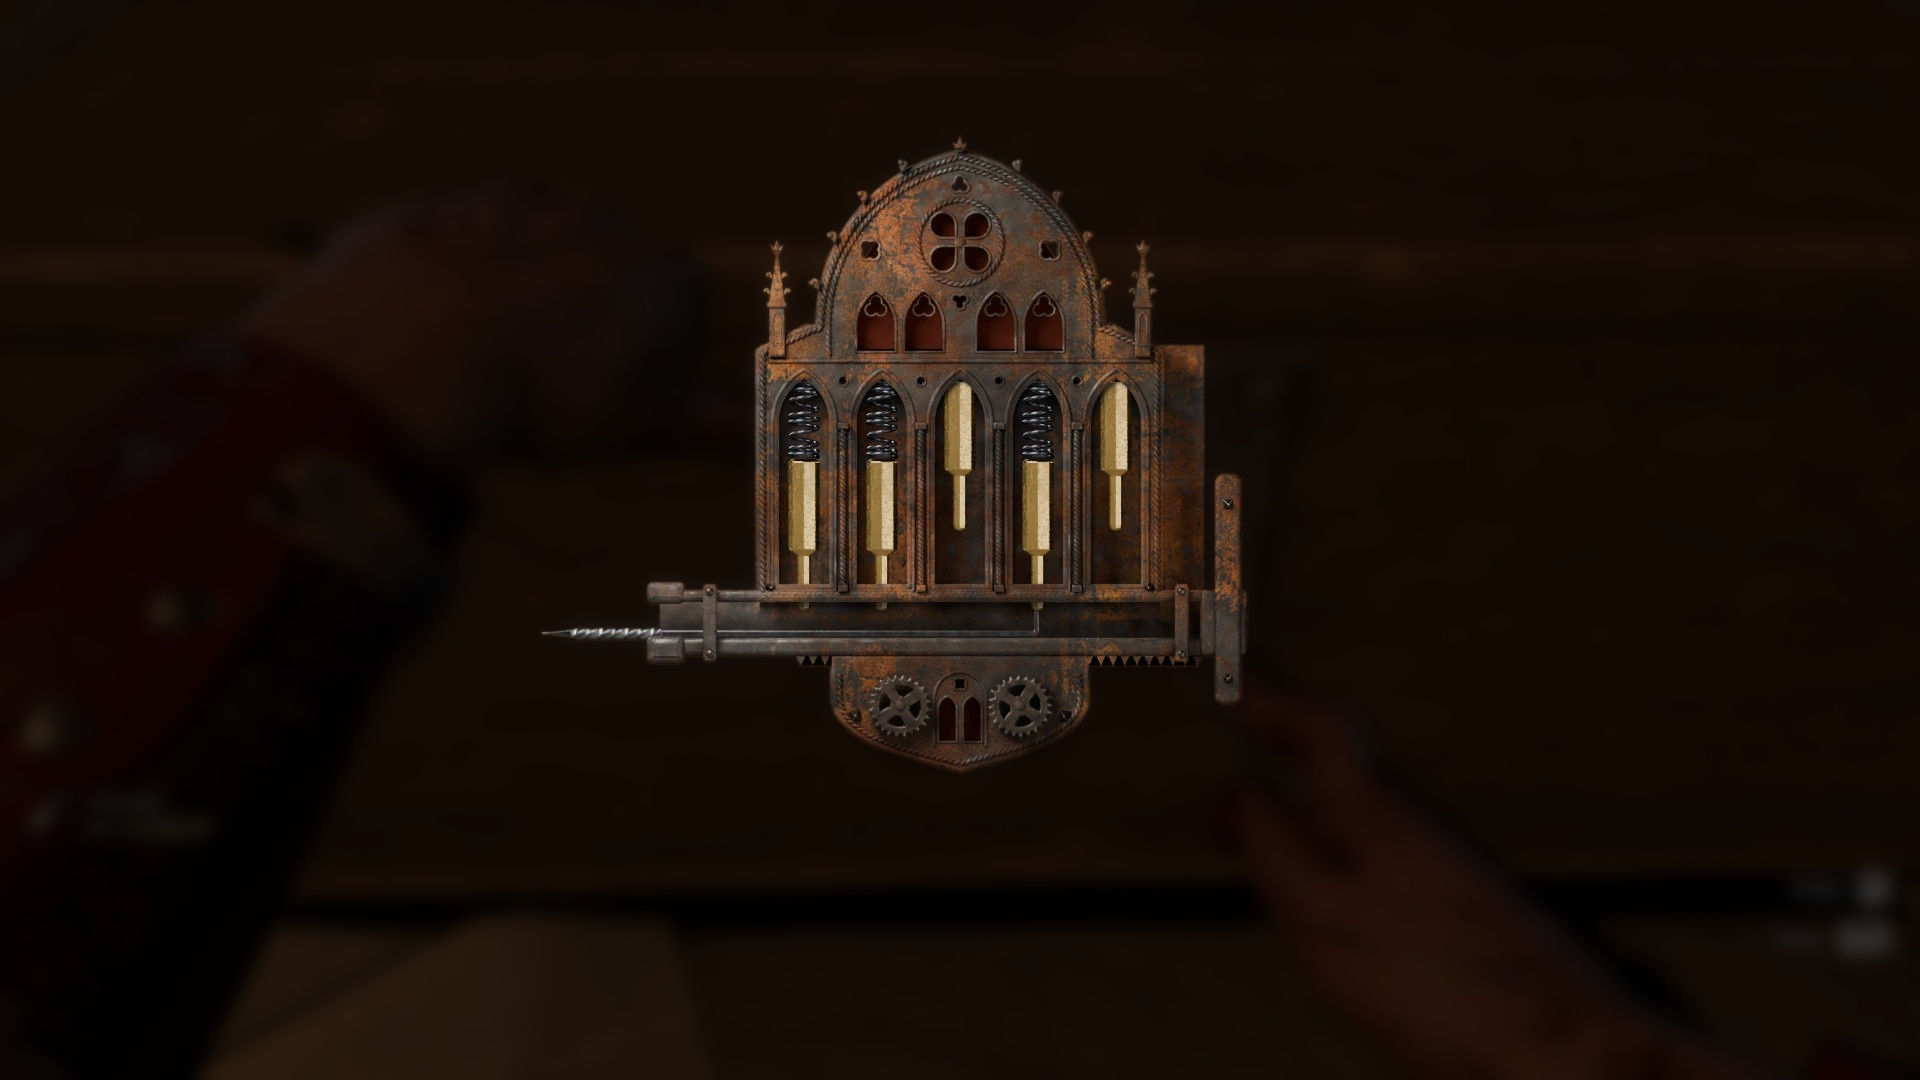
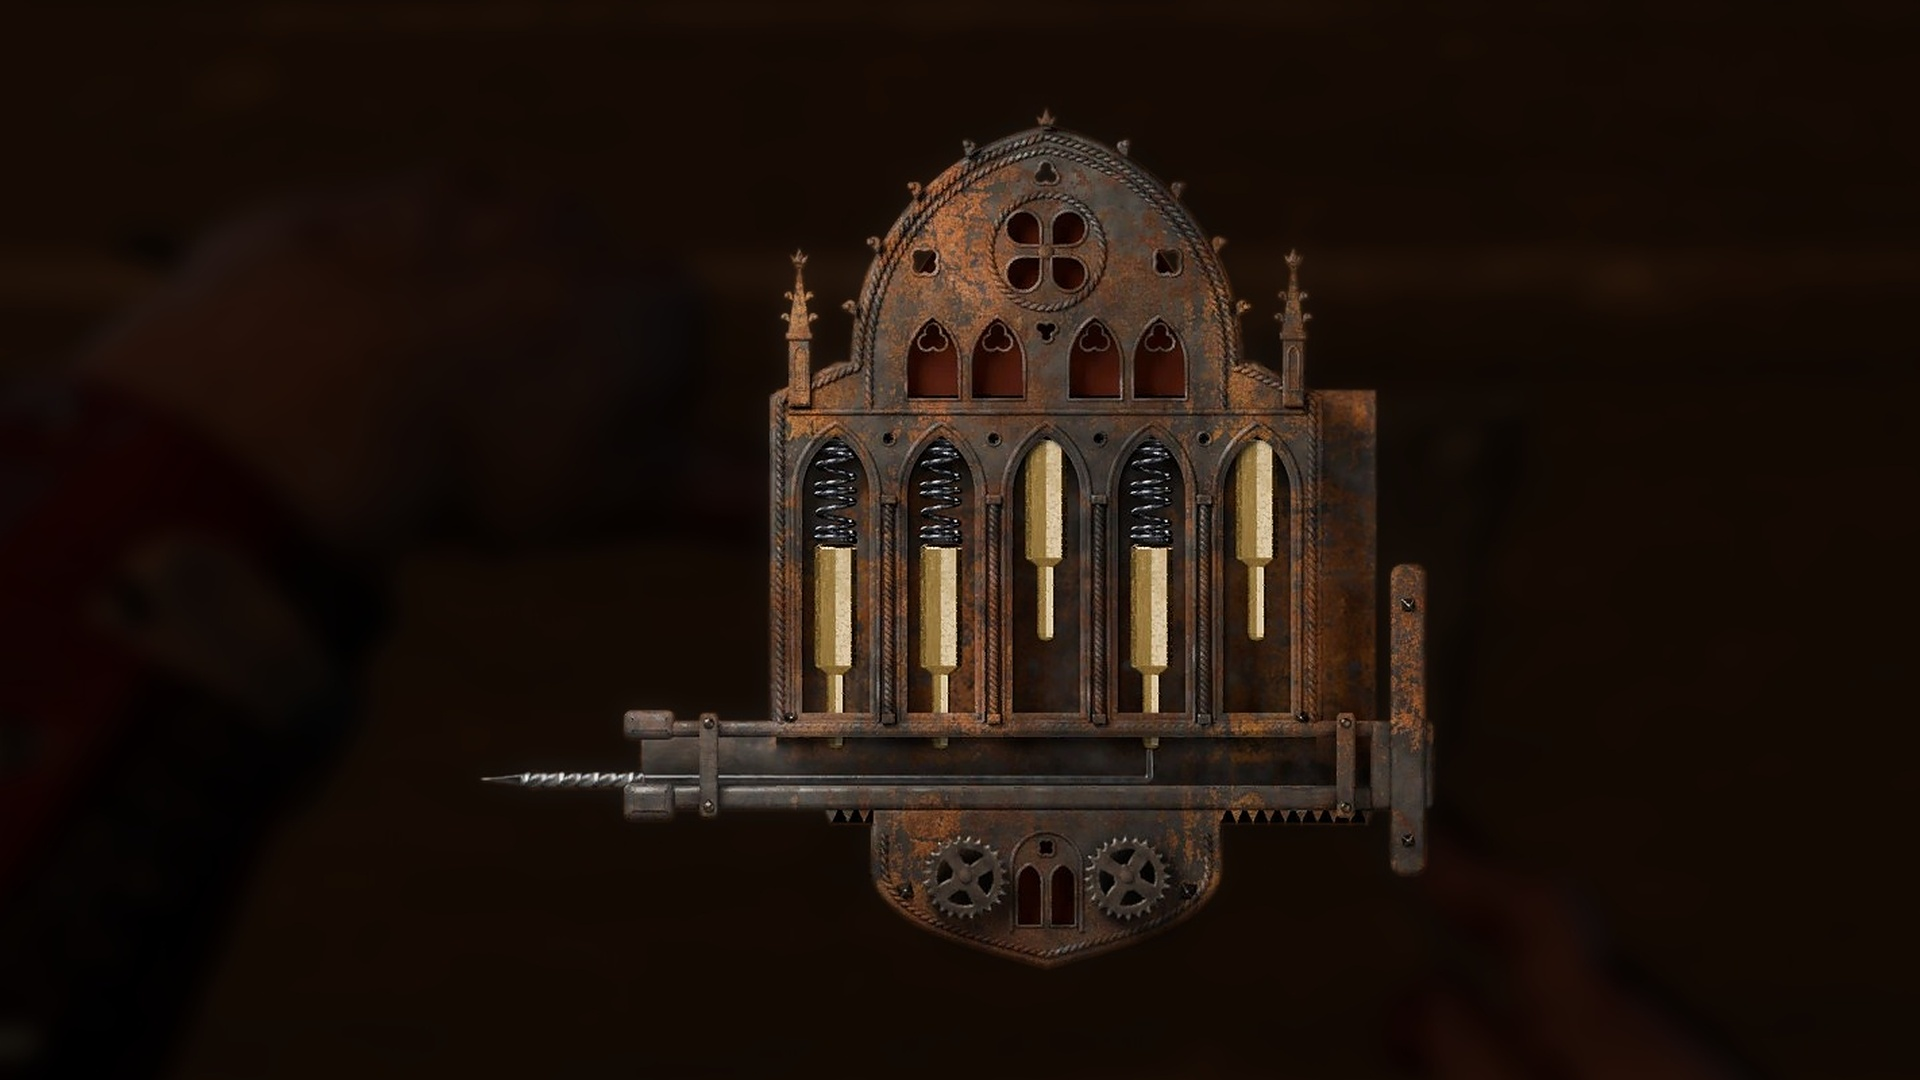
docs(oblivionlockpicking): recenter cover and update Nexus credits

diff --git a/OblivionLockpicking/README.md b/OblivionLockpicking/README.md
@@ -29,7 +29,7 @@ This mod replaces the lockpicking minigame with a tumbler lock in the style of T
 
 ## Requirements
 
-- Kingdom Come: Deliverance II 1.5.6 on Steam. The GOG and Game Pass builds pass the same signature checks.
+- Kingdom Come: Deliverance II 1.5.6 on Steam.
 - [Kingdom Come Script Extender (KCSE)](https://www.nexusmods.com/kingdomcomedeliverance2/mods/3332) for the KCSE build, or an ASI loader for the ASI build
 - [Sound Framework](https://www.nexusmods.com/kingdomcomedeliverance2/mods/3860)
 
